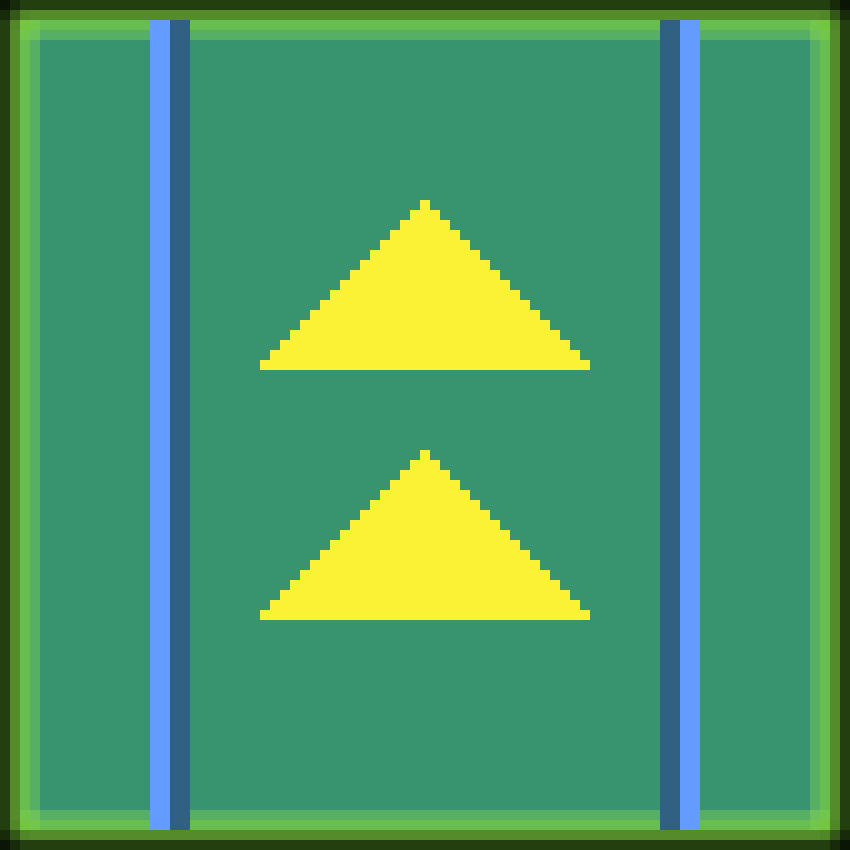
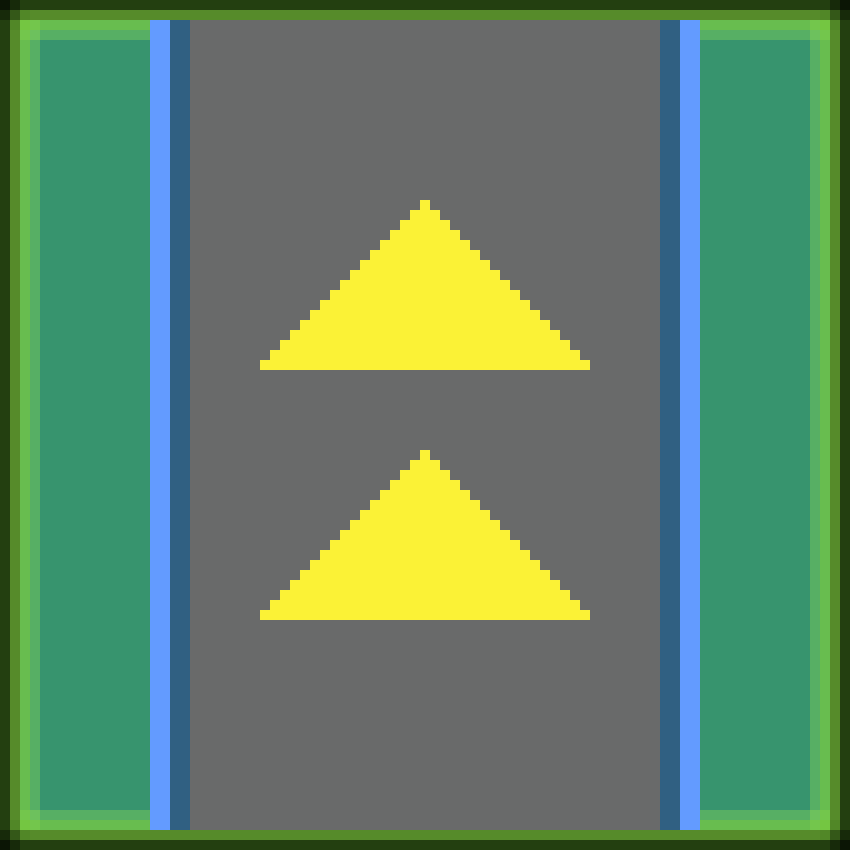
card render material, suit, value

diff --git a/src/main/java/ui/card/CardRenderResolver.java b/src/main/java/ui/card/CardRenderResolver.java
@@ -4,42 +4,121 @@ import component.card.Card;
 import javafx.scene.image.Image;
 import ui.render.RenderState;
 
+import javax.imageio.ImageIO;
+import java.util.HashMap;
+import java.util.Map;
+
 public final class CardRenderResolver {
+    // Longer than GTA V load times
 
-    private static final Image PLASTIC_CARD_IMAGE = new Image(
-            CardRenderResolver.class.getResourceAsStream( "/asset/card/plastic-card.png"),
-            0, 0,
-            true,
-            false
-    );
+    private class MaterialImage {
 
-    private static final Image STONE_CARD_IMAGE = new Image(
-            CardRenderResolver.class.getResourceAsStream( "/asset/card/stone-card.png"),
-            0, 0,
-            true,
-            false
-    );
+        private static final String RESOURCE_DIR = "/asset/card/material/";
+        private static final String[] FILENAMES = {"glass", "metal", "plastic", "rubber", "stone"};
+        private static final Map<String, Image> images = new HashMap<>();
 
-    private static final Image METAL_CARD_IMAGE = new Image(
-            CardRenderResolver.class.getResourceAsStream( "/asset/card/metal-card.png"),
-            0, 0,
-            true,
-            false
-    );
+        static {
+            for (String filename : FILENAMES) {
+                images.put(
+                    filename,
+                    new Image(
+                        CardRenderResolver.class.getResourceAsStream( RESOURCE_DIR + filename + ".png"),
+            0, 0, true, false
+                    )
+                );
+            }
+        }
 
+    }
+
+    private class SuitImage {
+
+        private static final String RESOURCE_DIR = "/asset/card/suit/";
+        private static final String[] FILENAMES = { "club", "heart", "diamond", "spade"};
+        private static final Map<String, Image> images = new HashMap<>();
+
+        static {
+            for (String filename : FILENAMES) {
+                images.put(
+                    filename,
+                    new Image(
+                            CardRenderResolver.class.getResourceAsStream( RESOURCE_DIR + filename + ".png"),
+                            0, 0, true, false
+                    )
+                );
+            }
+        }
+
+    }
+
+    private class ValueImage {
+        private static final String RESOURCE_DIR = "/asset/card/value/";
+        private static final String[] FILENAMES = {"a", "2", "3", "4", "5", "6", "7", "8", "9", "10", "j", "q", "k"};
+        private static final Map<String, Image> blackImages = new HashMap<>(); // _Black
+        private static final Map<String, Image> whiteImages = new HashMap<>(); // _White
+
+        static { // Is it better to load case by case and cache it like that? maybe. Do I care? no.
+            for (String filename : FILENAMES) {
+                blackImages.put(
+                    filename,
+                    new Image(
+                            CardRenderResolver.class.getResourceAsStream( RESOURCE_DIR + filename + "_black.png"),
+                            0, 0, true, false
+                    )
+                );
+                whiteImages.put(
+                    filename,
+                    new Image(
+                            CardRenderResolver.class.getResourceAsStream( RESOURCE_DIR + filename + "_white.png"),
+                            0, 0, true, false
+                    )
+                );
+            }
+        }
+
+    }
 
     private static final double CARD_WIDTH  = 50;
     private static final double CARD_HEIGHT = 70;
 
     private CardRenderResolver() {}
 
-    public static RenderState resolve(Card card) {
-        Image toRender = switch (card.getMaterial()) {
-            case PLASTIC -> PLASTIC_CARD_IMAGE;
-            case STONE -> STONE_CARD_IMAGE;
-            case METAL -> METAL_CARD_IMAGE;
-            default -> PLASTIC_CARD_IMAGE;
-        };
+    public static RenderState resolveMaterial(Card card) {
+
+        Image toRender = MaterialImage.images.getOrDefault(
+            card.getMaterial().toString().toLowerCase(),
+            MaterialImage.images.get("plastic")
+        );
+
+        return new RenderState(toRender, CARD_WIDTH, CARD_HEIGHT, 0, false, card.getMaterial() == Card.Material.GLASS ? 0.5: 1.0);
+    }
+
+    public static RenderState resolveSuit(Card card) {
+
+        Image toRender = SuitImage.images.getOrDefault(
+                card.getSuit().toString().toLowerCase(),
+                MaterialImage.images.get("spade")
+        );
+
         return new RenderState(toRender, CARD_WIDTH, CARD_HEIGHT, 0, false, 1.0);
     }
+
+    public static RenderState resolveValue(Card card) {
+
+        boolean useWhite = true; // TODO idk man it kinda just looks better with white all the time
+
+        String valueString = String.valueOf(card.getValue());
+        if (valueString.equals("1")) valueString = "a";
+        else if (valueString.equals("11")) valueString = "j";
+        else if (valueString.equals("12")) valueString = "q";
+        else if (valueString.equals("13")) valueString = "k";
+
+        Image toRender = (useWhite ? ValueImage.whiteImages: ValueImage.blackImages).getOrDefault(
+            valueString,
+            ValueImage.whiteImages.get("1")
+        );
+
+        return new RenderState(toRender, CARD_WIDTH, CARD_HEIGHT, 0, false, 1.0);
+    }
+
 }

diff --git a/src/main/java/ui/card/CardRenderer.java b/src/main/java/ui/card/CardRenderer.java
@@ -30,24 +30,19 @@ public class CardRenderer extends Renderer<Card> {
 
     @Override
     public void render(Card card, Pane node, GridPos pos) {
-        RenderState state = CardRenderResolver.resolve(card);
+        // draw the material
+        RenderState matState = CardRenderResolver.resolveMaterial(card);
+        RenderState suitState = CardRenderResolver.resolveSuit(card);
+        RenderState valueState =  CardRenderResolver.resolveValue(card);
 
-        // draw base card via shared renderer
-        draw(node, state);
+        Canvas canvas = new Canvas(matState.width(), matState.height());
 
-        // 🔹 overlay text manually (for now)
-        Canvas canvas = (Canvas) node.getChildren().get(0);
-        GraphicsContext gc = canvas.getGraphicsContext2D();
+        // Calling draw with canvas manually to allow multiple draws on top of each other
+        drawWithCanvas(node, matState, canvas);
+        drawWithCanvas(node, suitState, canvas);
+        drawWithCanvas(node, valueState, canvas);
 
-        gc.setFont(CARD_FONT);
-        gc.setFill(Color.BLACK);
-
-        String text =
-                card.getSuit() + "\n" +
-                card.getValue() + "\n" +
-                card.getMaterial();
-
-        gc.fillText(text,0,10);
+        node.getChildren().setAll(canvas);
     }
 
     @Override

diff --git a/src/main/java/ui/render/Renderer.java b/src/main/java/ui/render/Renderer.java
@@ -11,12 +11,16 @@ public abstract class Renderer<T> {
     public abstract void render(T tile, Pane node, util.GridPos pos);
 
     protected void draw(Pane node, RenderState state) {
+        Canvas canvas = new Canvas(state.width(), state.height());
+        drawWithCanvas(node, state, canvas);
+        node.getChildren().setAll(canvas);
+    }
+
+    protected void drawWithCanvas(Pane node, RenderState state, Canvas canvas) {
         double w = state.width();
         double h = state.height();
 
         double tile = tileSize();
-
-        Canvas canvas = new Canvas(w, h);
 
         // 🔥 CENTER THE CANVAS IN THE TILE
         canvas.setLayoutX((tile - w) / 2.0);
@@ -25,7 +29,7 @@ public abstract class Renderer<T> {
         GraphicsContext gc = canvas.getGraphicsContext2D();
 
         gc.setImageSmoothing(false);
-        gc.clearRect(0, 0, w, h);
+        // gc.clearRect(0, 0, w, h);
 
         gc.save();
         gc.setGlobalAlpha(state.alpha());
@@ -45,8 +49,6 @@ public abstract class Renderer<T> {
                 h);
 
         gc.restore();
-
-        node.getChildren().setAll(canvas);
     }
 
     public abstract registry.render.RenderLayer layer();

diff --git a/src/main/java/ui/mover/ConveyorRenderResolver.java b/src/main/java/ui/mover/ConveyorRenderResolver.java
@@ -19,7 +19,7 @@ public final class ConveyorRenderResolver extends RenderResolver {
 
     private static final Image TURN_RIGHT_IMAGE = new Image(
             ConveyorRenderResolver.class.getResourceAsStream(
-                    "/asset/tiles/mover/conveyor/conveyor-turn-right.png"),
+                    "/asset/tiles/mover/conveyor/conveyor-turn.png"),
             0, 0, true, false);
 
     private ConveyorRenderResolver() {}

diff --git a/src/main/java/registry/render/RenderLayer.java b/src/main/java/registry/render/RenderLayer.java
@@ -1,8 +1,8 @@
 package registry.render;
 
 public enum RenderLayer {
-    MOVER,
     BASE,
+    MOVER,
     MODIFIER,
     CARD,
     OVERLAY
